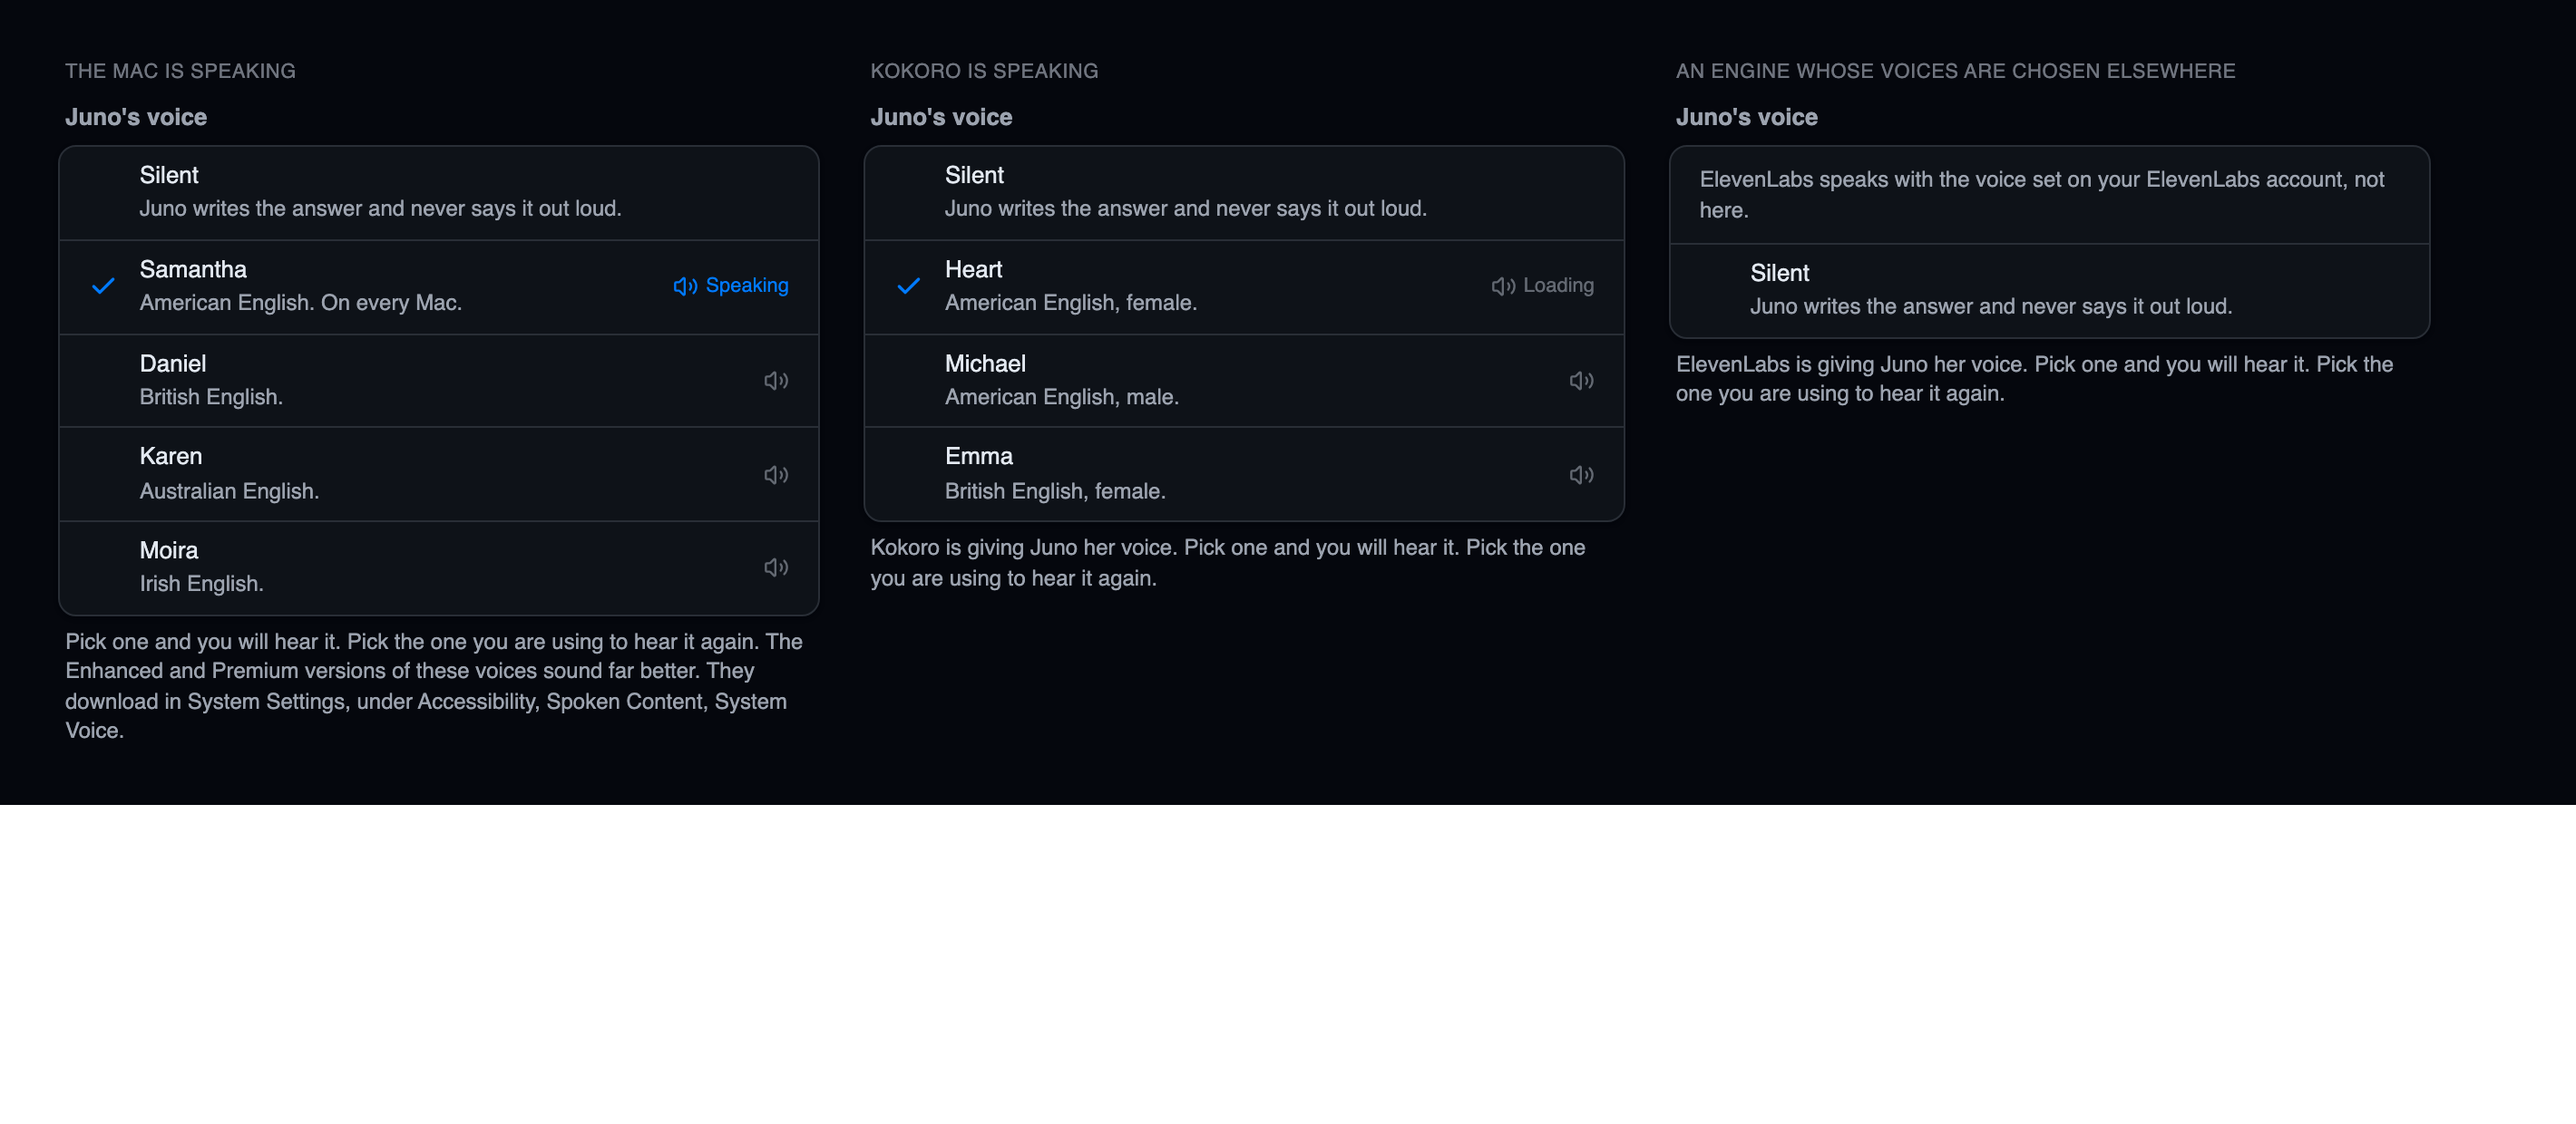
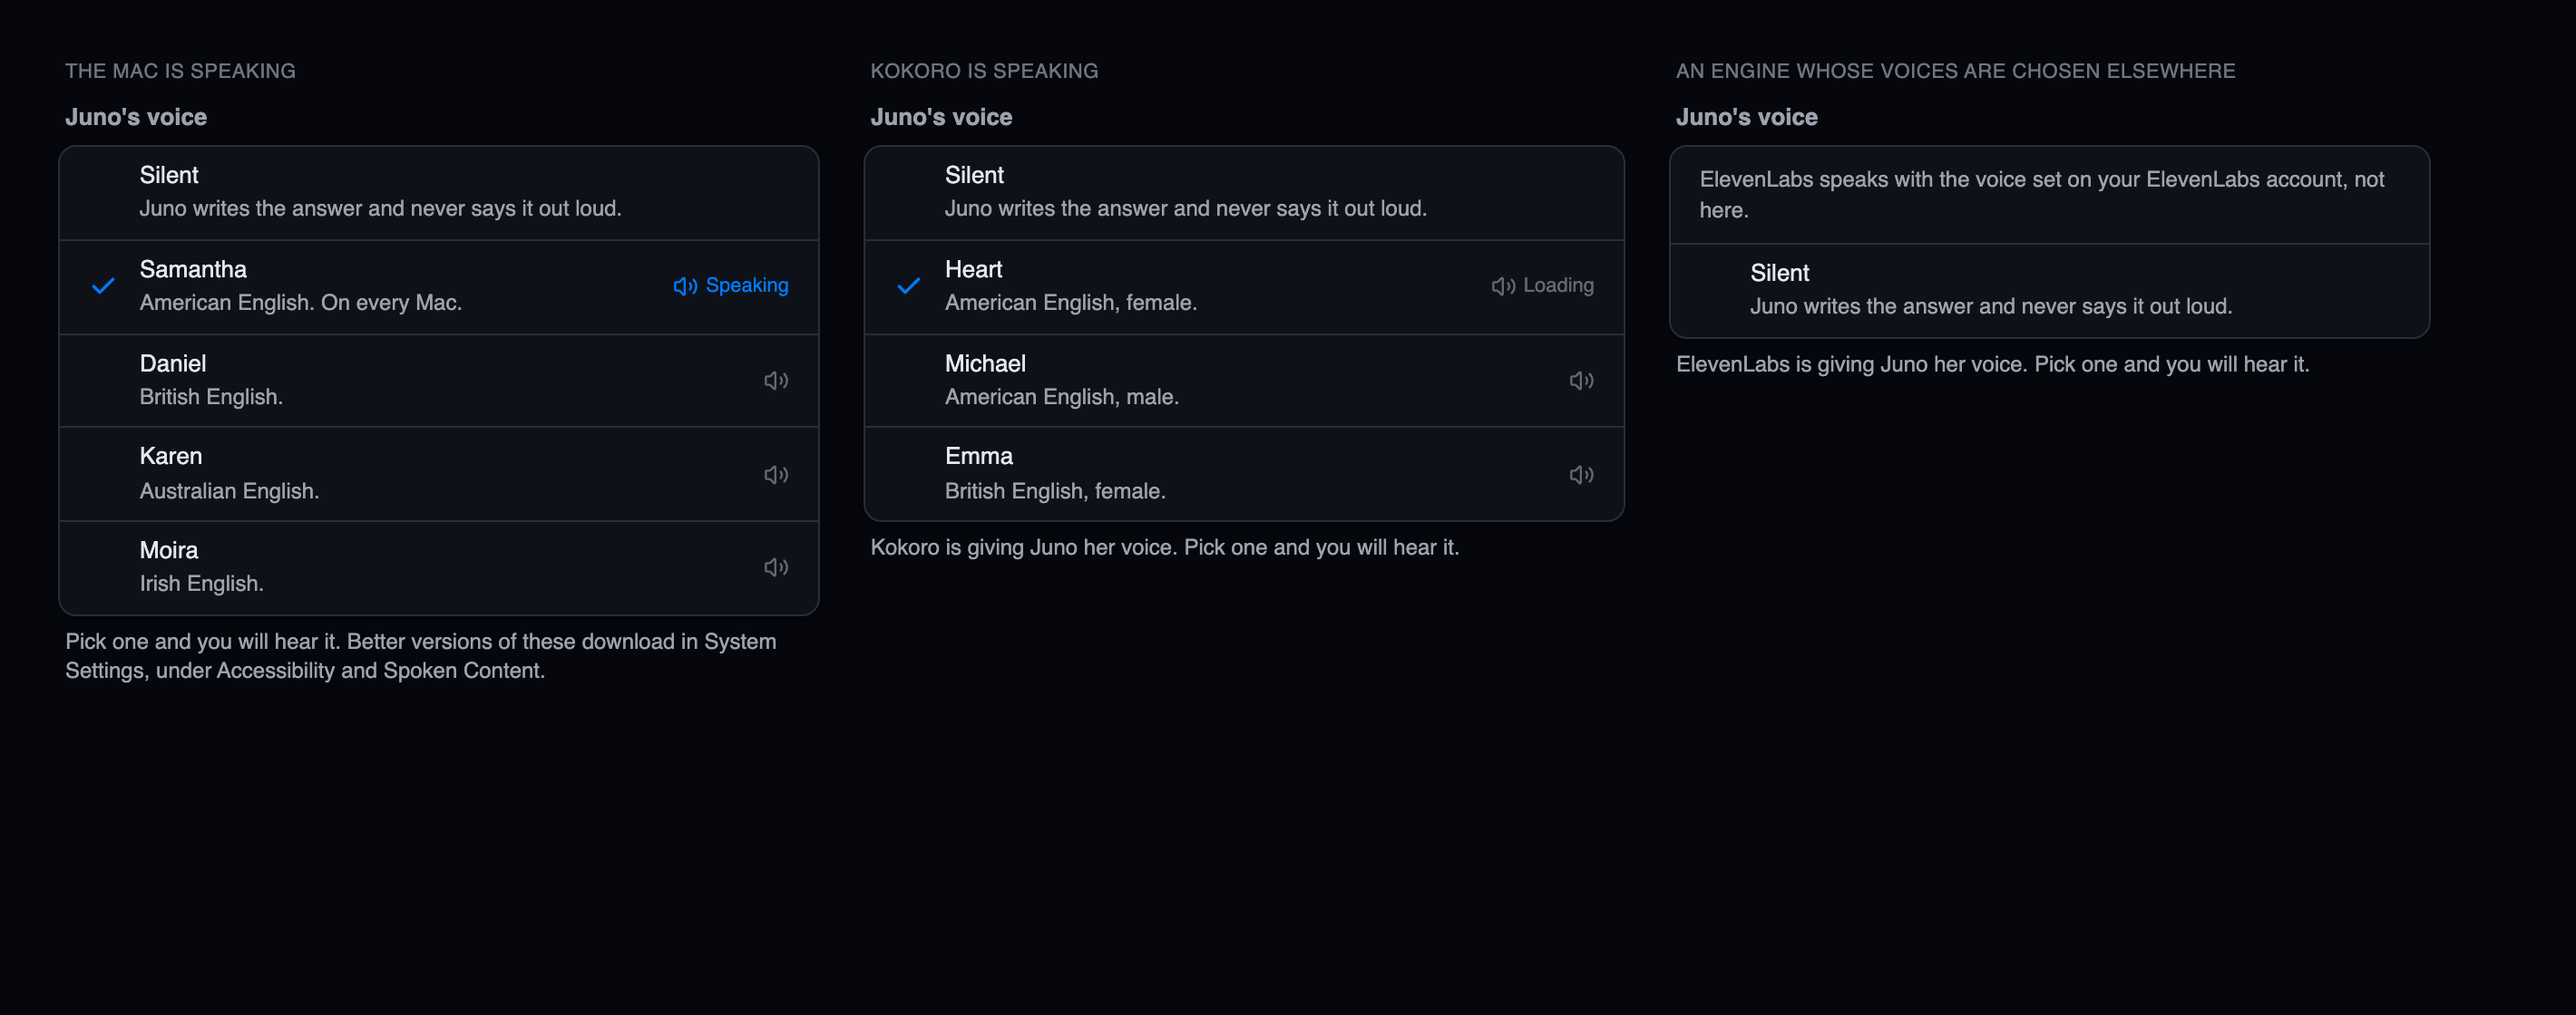
fix(voice): two sentences under the voice list, not four
The footer explained the replay gesture, which tapping a row already
teaches, and spelled out a System Settings path in full. Cut to one
sentence about picking and, only when every voice this Mac has is the
compact one, one about where the better ones come from. Screenshots
recaptured to match.

Claude-Session: https://claude.ai/code/session_01MA8dLGZuuyNGUsceY5XXVM

diff --git a/src/components/settings/sections/VoiceSettings.tsx b/src/components/settings/sections/VoiceSettings.tsx
@@ -34,8 +34,7 @@ const FOLLOW_SYSTEM = "__system__";
  * says every voice this Mac has is the compact one.
  */
 const BETTER_VOICES_HINT =
-  "The Enhanced and Premium versions of these voices sound far better. " +
-  "They download in System Settings, under Accessibility, Spoken Content, System Voice.";
+  "Better versions of these download in System Settings, under Accessibility and Spoken Content.";
 
 /**
  * Audio: which microphone Juno hears you on, which speaker it answers from,
@@ -85,12 +84,14 @@ export default function VoiceSettings({ settings }: SettingsSectionProps) {
   // Mac: on the Mac the voice names are the whole answer.
   const engineNote =
     junoVoices && junoVoices.engine !== "system"
-      ? `${junoVoices.engine_label} is giving Juno her voice.`
+      ? `${junoVoices.engine_label} is giving Juno her voice. Pick one and you will hear it.`
       : undefined;
 
+  // Two sentences at most. "Tap the one you are using to hear it again" was
+  // the third and it is gone: tapping a row plays it, so tapping the chosen
+  // one playing it again is what somebody would expect anyway.
   const voiceFooter = [
-    engineNote,
-    "Pick one and you will hear it. Pick the one you are using to hear it again.",
+    engineNote ?? "Pick one and you will hear it.",
     junoVoices?.better_voices_available ? BETTER_VOICES_HINT : undefined,
   ]
     .filter(Boolean)
